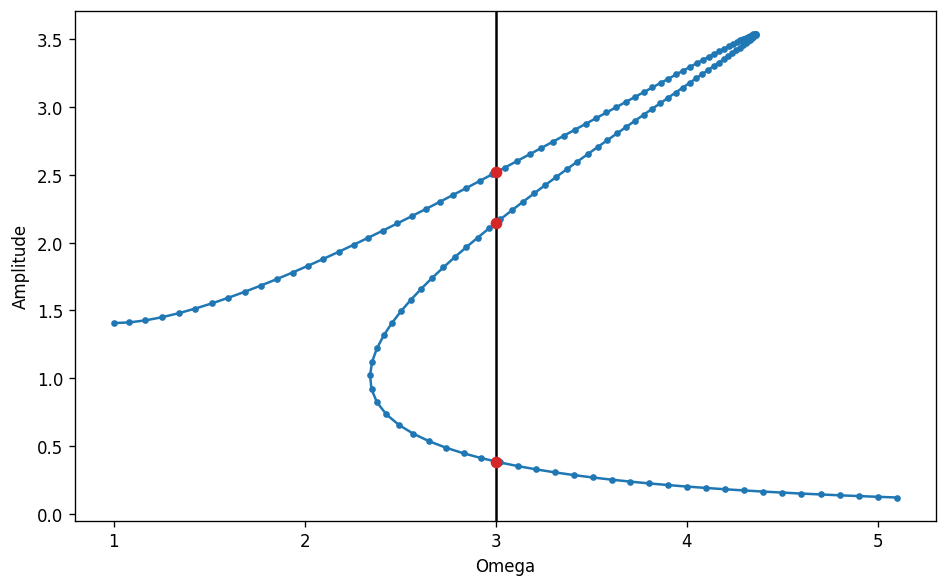
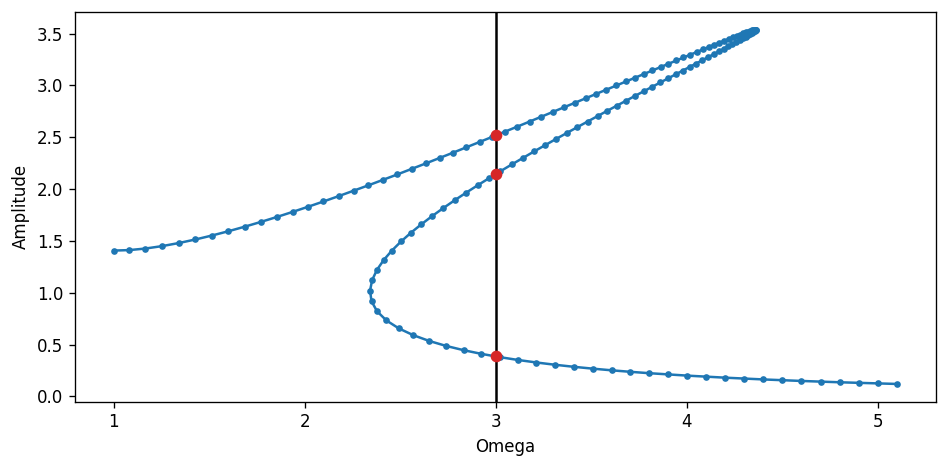
adding numpy ufunc interface to Fourier class

diff --git a/harmonicbalance/fourier.py b/harmonicbalance/fourier.py
@@ -10,10 +10,78 @@
 
 import numpy as np
 from time import perf_counter
+import functools
+
+
+# NUMPY FUNCTIONS ===================================================================================
+
+FUNCS = [
+    # Trigonometric functions
+    np.sin,
+    np.cos, 
+    np.tan, 
+    np.arcsin, 
+    np.arccos,
+    np.arctan,
+    np.sinh,
+    np.cosh,
+    np.tanh,
+    np.arcsinh, 
+    np.arccosh,
+    np.arctanh,
+
+    # Exponential and logarithmic functions
+    np.exp,
+    np.exp2,  
+    np.log, 
+    np.log2,  
+    np.log10,
+    np.log1p,
+    np.expm1,
+
+    # Power functions
+    np.sqrt, 
+    np.square, 
+    np.power, 
+    np.cbrt, 
+
+    # Complex functions
+    np.real, 
+    np.imag, 
+    np.conj, 
+    np.abs, 
+    np.angle, 
+
+    # Statistical functions
+    np.sign,
+    ]
+
+
+# WRAPPER THAT ADDS ADDITIONAL NONLINEARITIES =======================================================
+
+def add_funcs(cls):
+    """
+    Decorator that adds numpy functions as methods to the 'Fourier' class as 
+    additional nonlinearities, utilizes the 'nonlinearity' method.
+
+    Makes the 'Fourier' class compatible with the basic numpy ufuncs.
+    """
+    def create_method(fnc):
+        @functools.wraps(fnc)
+        def method(self):
+            return self.nonlinearity(fnc)
+        return method
+
+    # Add methods to class
+    for fnc in FUNCS:
+        if not hasattr(cls, fnc.__name__):
+            setattr(cls, fnc.__name__, create_method(fnc))
+    return cls
 
 
 # FOURIER CLASS =====================================================================================
 
+@add_funcs
 class Fourier:
 
     """
@@ -282,7 +350,6 @@ class Fourier:
 
     def spectrum(self):
         all_omegas = np.hstack([0.0, self._omegas()])
-        # cpx_amplitudes = np.hstack([self.coeff_dc, 0.5*(self.coeffs_cos - 1j*self.coeffs_sin)])
         cpx_amplitudes = np.hstack([self.coeff_dc, self.coeffs_cos - 1j*self.coeffs_sin])
         return all_omegas, cpx_amplitudes 
 
@@ -320,16 +387,16 @@ if __name__ == "__main__":
     
     import matplotlib.pyplot as plt
 
-    X = Fourier(n=50, omega=1)
+    X = Fourier(n=500, omega=1)
     X[1] = 1
+
+    Y = np.sin(X)
+
+    print(X, Y)
 
     om, am = X.spectrum()
     plt.plot(om, abs(am), "o")
+
+    om, am = Y.spectrum()
+    plt.plot(om, abs(am), "o")
     plt.show()
-
-    for _ in range(10):
-        X = X**3
-
-        om, am = X.spectrum()
-        plt.plot(om, abs(am), "o")
-        plt.show()

diff --git a/examples/example_pendulum.py b/examples/example_pendulum.py
@@ -9,8 +9,12 @@ g, L = 9.81, 1.0
 omega = np.sqrt(g / L)
 
 # Residual function
+# def residual_pendulum(Theta):
+#     return Theta.dt().dt() + (g / L) * Theta.nonlinearity(np.sin)
+
+# Residual function using numpy ufunc interface
 def residual_pendulum(Theta):
-    return Theta.dt().dt() + (g / L) * Theta.nonlinearity(np.sin)
+    return Theta.dt().dt() + (g / L) * np.sin(Theta)
 
 # Initial guess
 X0 = Fourier(omega=omega, n=20)

diff --git a/README.md b/README.md
@@ -8,7 +8,7 @@ There are a lot of common examples for nonlinear dynamical systems in the `examp
 
 ## The Fourier Class
 
-The heart of this minimalistic framework is the `Fourier` class in `harmonicbalance.fourier`. The class implements the common arithmetic operations such as `__add__`, `__sub__`, `__mul__`, etc. The operations are implemented in such a way that they transform the time domain signal that is represented by a set of fourier coefficiencts. For arbitrary nonlinear operations such as `__pow__`, etc. the signal is constructed in the time domain from the fourier coefficients using numpys efficient `ifft`. 
+The heart of this minimalistic framework is the `Fourier` class in `harmonicbalance.fourier`. The class implements the common arithmetic operations such as `__add__`, `__sub__`, `__mul__`, etc. The operations are implemented in such a way that they transform the time domain signal that is represented by a set of fourier coefficiencts. For arbitrary nonlinear operations such as `__pow__`, etc. the signal is constructed in the time domain from the fourier coefficients using numpys efficient `ifft`. There are also a lot of common nonlinearities implemented using a decorator approach so they can be interfaced by numpys ufunc system.
 
 In short, all the mess of harmonic balance residual function setup and transfer between frequency- and time-domain is naturally handled by the fourier objects.
 
@@ -64,7 +64,7 @@ X0 = U.copy()
 X_sol, _sol = fouriersolve(residual_duffing, X0, method="hybr")
 ```
 
-    runtime of 'fouriersolve' : 8.257699984824285 ms
+    runtime of 'fouriersolve' : 9.228100010659546 ms
     
 
 
@@ -91,7 +91,7 @@ v = X_sol.dt().evaluate(t)
 
 ```python
 # Plot the solution (time domain)
-fig, ax = plt.subplots(tight_layout=True, figsize=(8,5), dpi=120)
+fig, ax = plt.subplots(tight_layout=True, figsize=(8,4), dpi=120)
 
 ax.plot(t, x, label="x")
 ax.plot(t, v, label="v")
@@ -110,7 +110,7 @@ ax.set_ylabel("Response");
 
 ```python
 # Plot the solution (phase diagram)
-fig, ax = plt.subplots(tight_layout=True, figsize=(8,5), dpi=120)
+fig, ax = plt.subplots(tight_layout=True, figsize=(6,4), dpi=120)
 
 ax.plot(x, v)
 
@@ -161,18 +161,21 @@ PCS = PredictorCorrectorSolver(residual_duffing,
 solutions = PCS.solve()
 ```
 
-    runtime of 'fouriersolve' : 4.071000003023073 ms
-    runtime of 'fouriersolve_arclength' : 6.971499999053776 ms
-    runtime of 'fouriersolve_arclength' : 2.7922000153921545 ms
-    runtime of 'fouriersolve_arclength' : 3.6125999758951366 ms
-    runtime of 'fouriersolve_arclength' : 2.9405000095721334 ms
+    runtime of 'fouriersolve' : 4.2195999994874 ms
+    runtime of 'fouriersolve_arclength' : 6.7857000103686005 ms
+    runtime of 'fouriersolve_arclength' : 3.843500016955659 ms
+    runtime of 'fouriersolve_arclength' : 3.7250999885145575 ms
+    runtime of 'fouriersolve_arclength' : 2.9832000145688653 ms
+    runtime of 'fouriersolve_arclength' : 5.243299994617701 ms
+    runtime of 'fouriersolve_arclength' : 2.9935000056866556 ms
     ...
-    runtime of 'fouriersolve_arclength' : 2.671800000825897 ms
-    runtime of 'fouriersolve_arclength' : 2.7083000168204308 ms
-    runtime of 'fouriersolve_arclength' : 2.909000002546236 ms
-    runtime of 'fouriersolve_arclength' : 2.6077000075019896 ms
-    runtime of 'fouriersolve_arclength' : 2.793399995425716 ms
-    runtime of 'solve' : 670.6766000133939 ms
+    runtime of 'fouriersolve_arclength' : 3.323700017062947 ms
+    runtime of 'fouriersolve_arclength' : 2.7794000052381307 ms
+    runtime of 'fouriersolve_arclength' : 2.6732999831438065 ms
+    runtime of 'fouriersolve_arclength' : 2.5305999733973294 ms
+    runtime of 'fouriersolve_arclength' : 2.4760999949648976 ms
+    runtime of 'fouriersolve_arclength' : 2.7956999838352203 ms
+    runtime of 'solve' : 665.9826000104658 ms
     
 
 
@@ -182,16 +185,16 @@ specific_omega = 3
 specific_solutions = PCS.solve_specific(specific_omega)
 ```
 
-    runtime of 'fouriersolve' : 4.574399994453415 ms
-    runtime of 'fouriersolve' : 2.503299998352304 ms
-    runtime of 'fouriersolve' : 2.2751000069547445 ms
-    runtime of 'solve_specific' : 9.798999992199242 ms
+    runtime of 'fouriersolve' : 4.511299979640171 ms
+    runtime of 'fouriersolve' : 2.782600000500679 ms
+    runtime of 'fouriersolve' : 2.450100000714883 ms
+    runtime of 'solve_specific' : 9.979099995689467 ms
     
 
 
 ```python
 #plot the solution (phase diagram)
-fig, ax = plt.subplots(tight_layout=True, figsize=(8,5), dpi=120)
+fig, ax = plt.subplots(tight_layout=True, figsize=(8,4), dpi=120)
 
 #solution curve
 ax.plot([s.omega for s in PCS.solutions], [s.amplitude() for s in solutions], ".-")
@@ -209,5 +212,3 @@ ax.set_ylabel("Amplitude");
     
 ![png](README_files/README_12_0.png)
     
-
-
